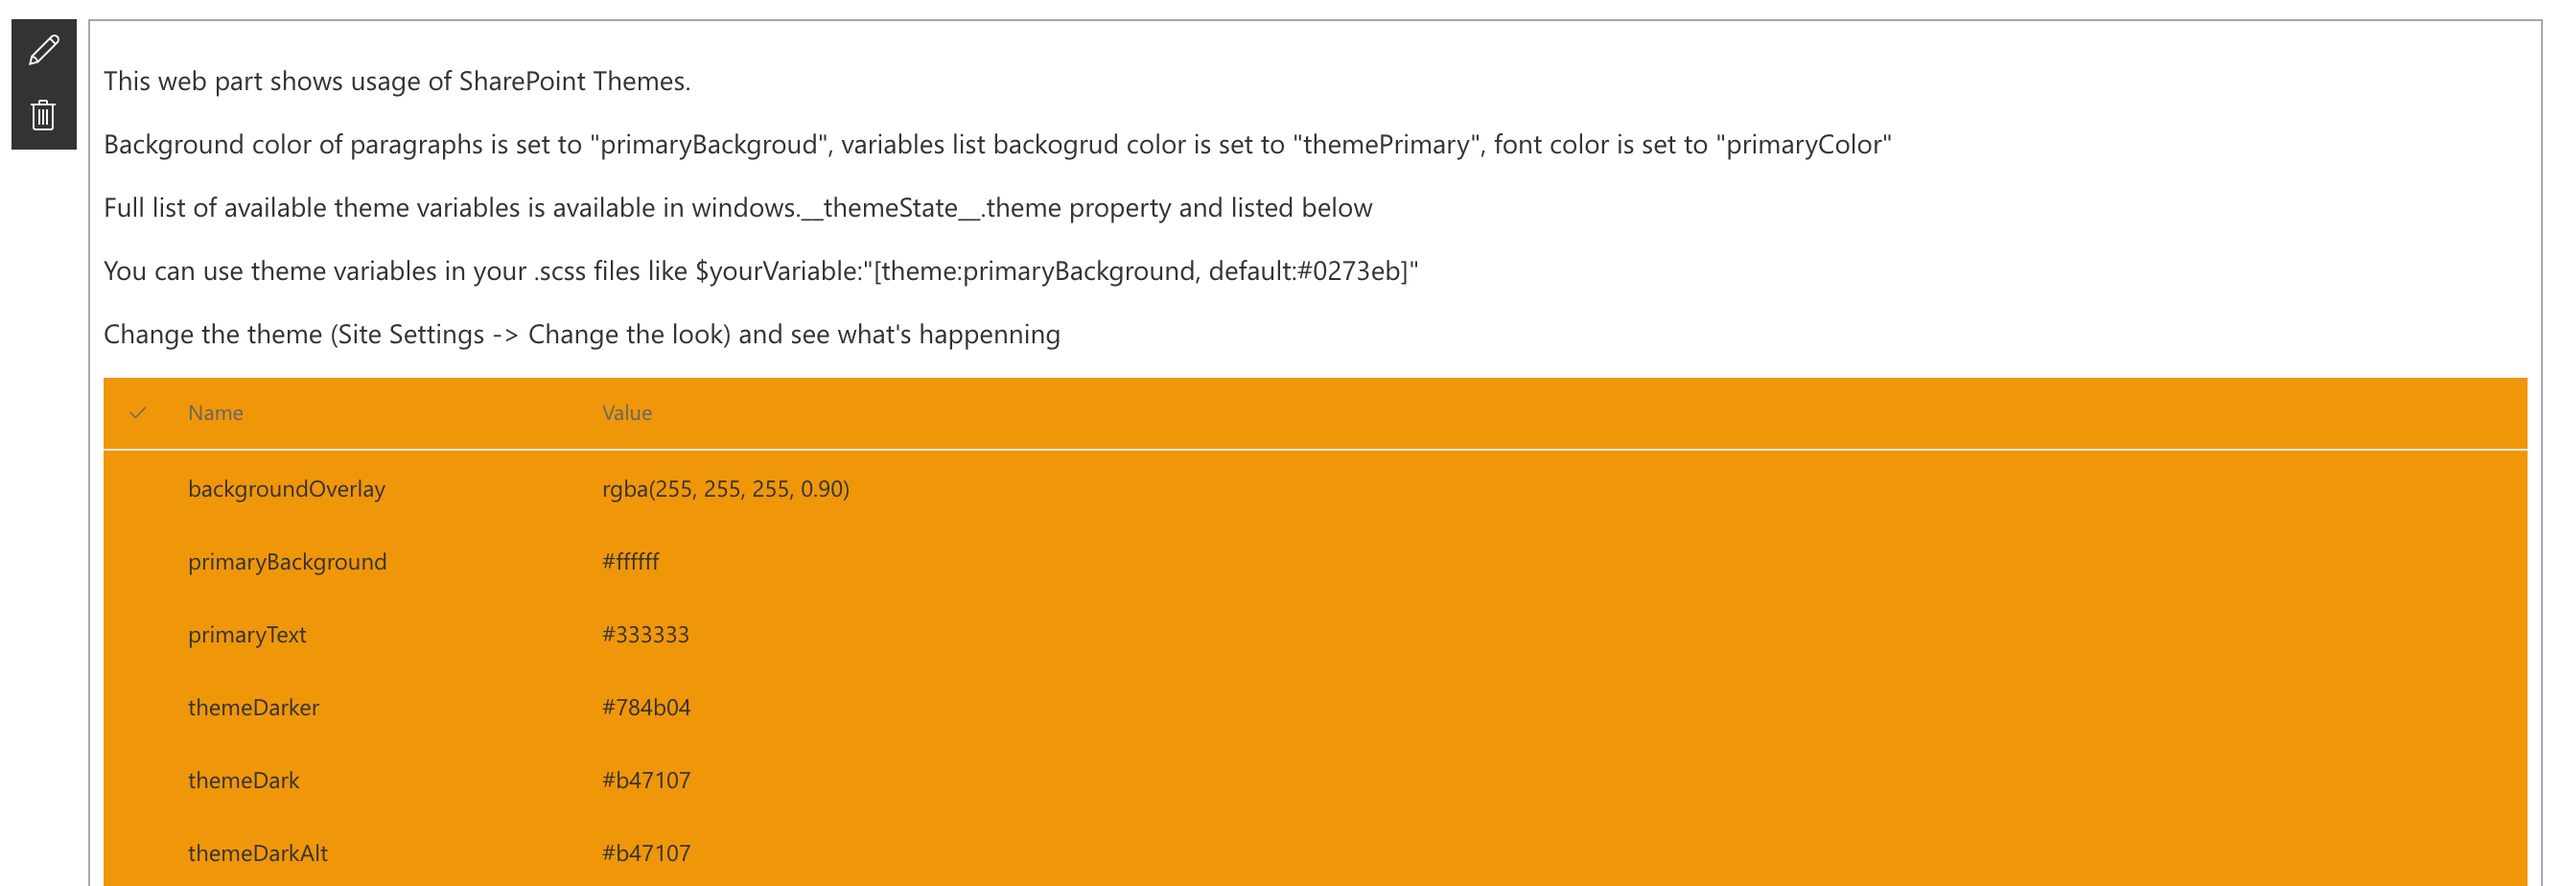
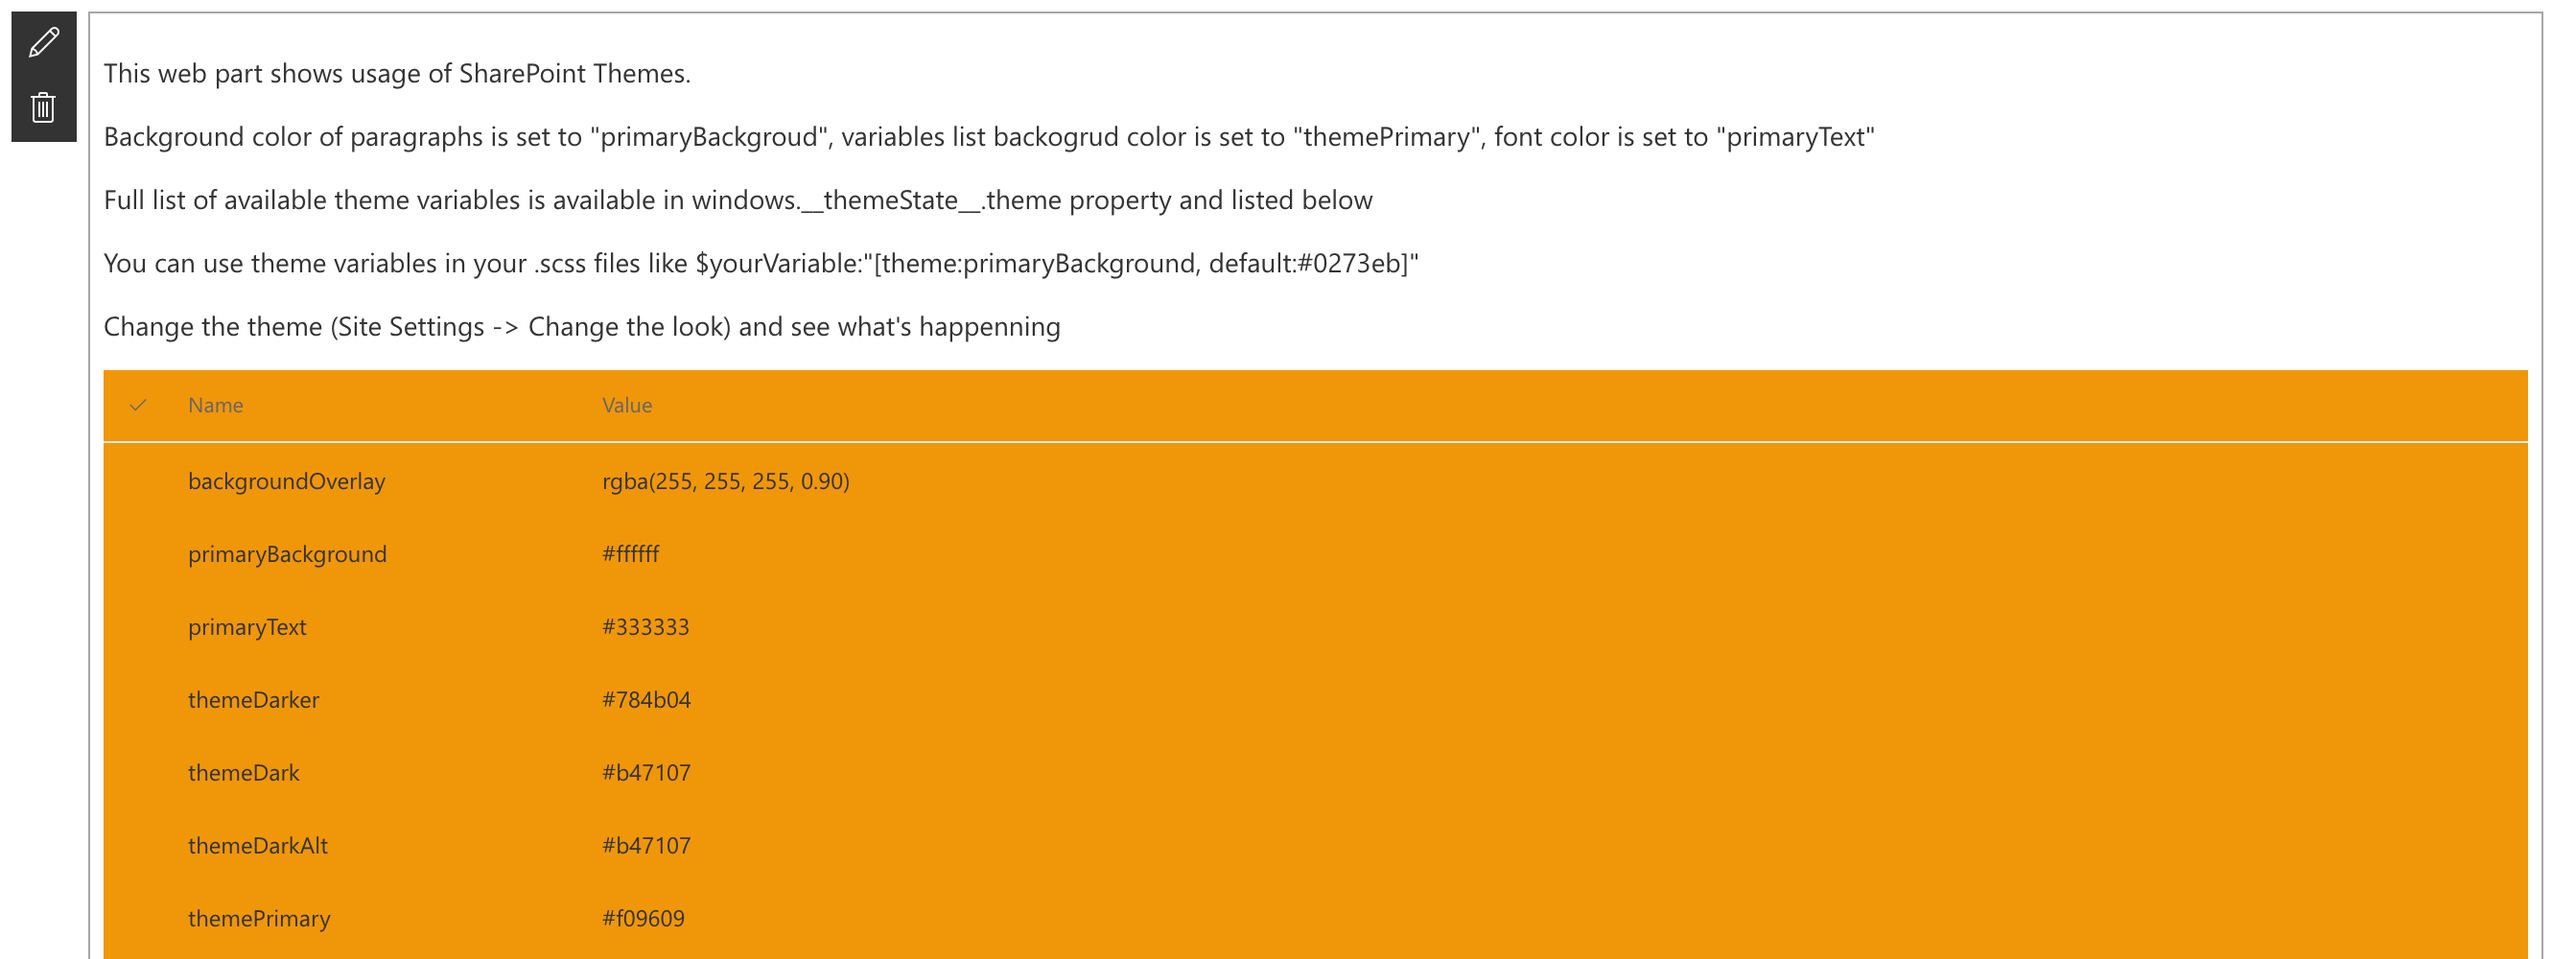
React themes demo (#199)
* Issue: text in web part says primaryColor instead of primaryText

* Screenshot updated

diff --git a/samples/react-themes/src/webparts/themes/components/Themes.tsx b/samples/react-themes/src/webparts/themes/components/Themes.tsx
@@ -37,7 +37,7 @@ export default class Themes extends React.Component<IThemesProps, void> {
     return (
       <div className={styles.main}>
         <p>{'This web part shows usage of SharePoint Themes.'}</p>
-        <p>{'Background color of paragraphs is set to "primaryBackgroud", variables list backogrud color is set to "themePrimary", font color is set to "primaryColor"'}</p>
+        <p>{'Background color of paragraphs is set to "primaryBackgroud", variables list backogrud color is set to "themePrimary", font color is set to "primaryText"'}</p>
         <p>{'Full list of available theme variables is available in windows.__themeState__.theme property and listed below'}</p>
         <p>{'You can use theme variables in your .scss files like $yourVariable:"[theme:primaryBackground, default:#0273eb]"'}</p>
         <p>{'Change the theme (Site Settings -> Change the look) and see what\'s happenning'}</p>

diff --git a/samples/react-themes/src/webparts/themes/components/Themes.module.scss b/samples/react-themes/src/webparts/themes/components/Themes.module.scss
@@ -1,4 +1,4 @@
-$primary: "[theme:primaryBackground, default: #0273eb]";
+$primary: "[theme:primaryBackground, default: #fff]";
 $primaryText: "[theme:primaryText, default: #333333]";
 $themePrimary: "[theme:themePrimary, default: #0078d7]";
 
